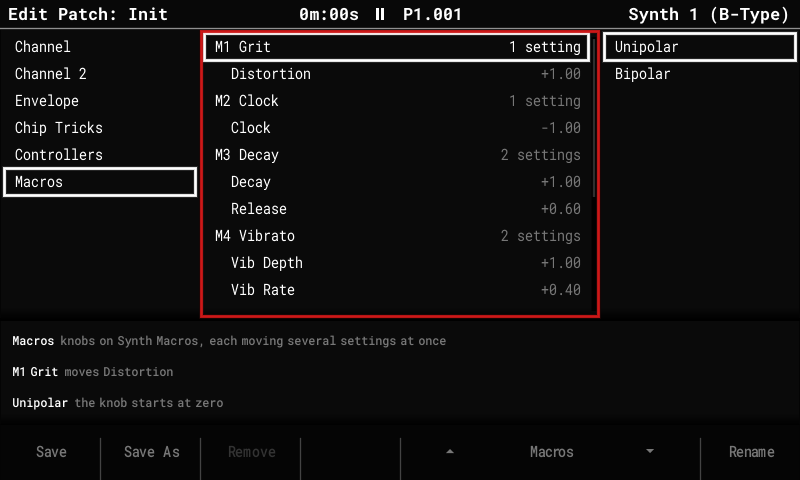
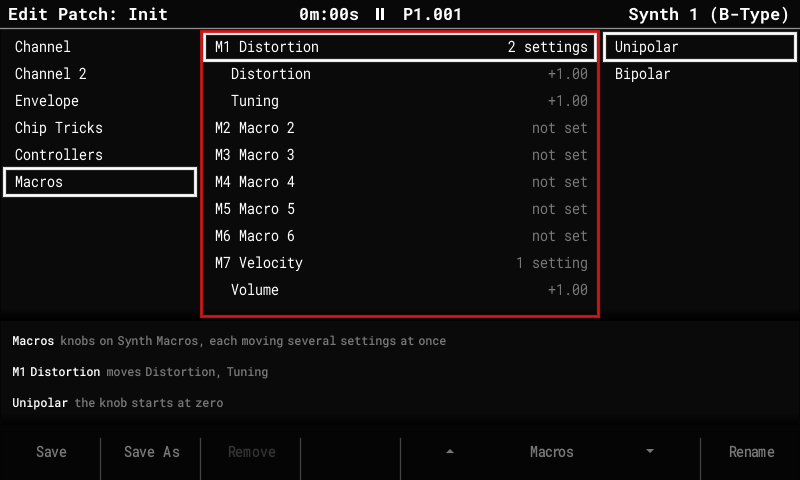
Docs: no B-Type Init macros (synths #3 closed); macro shots set M1 with F4

diff --git a/docs/guide/edit-patch.md b/docs/guide/edit-patch.md
@@ -49,15 +49,13 @@ moves:
 - On one of its settings: the amount in the value column, −2.00 to +2.00; **F3 Remove**
   takes the setting off the macro; **Delete** puts the amount back to the Init patch's.
 
-![The Macros section, M1 Grit](../images/edit-patch-macros.png)
+![The Macros section, M1 Distortion](../images/edit-patch-macros.png)
 
 The **Synth Macros** page lists under each bar the settings its macro moves, with **+** or
 **−** for the direction, or "not set".
 
-New patches come with their macros already set on some synths: B-Type's Init patch has
-Grit (Distortion), Clock (down), Decay (Decay and Release), Vibrato (depth and rate), Arp
-(the arp chord) and Hi-Pass (Hi-Pass and HP Freq); DX7's has Bright, Feedback, Attack,
-Release, LFO Depth and Detune.
+An Init patch starts with no macros set; DX7 voices come with M1–M6 on the six Tone
+controls (see [DX7](dx7.md)).
 
 ## The help box
 
